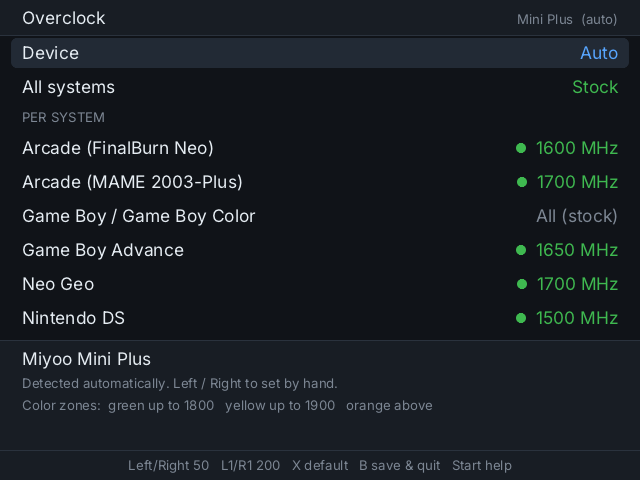
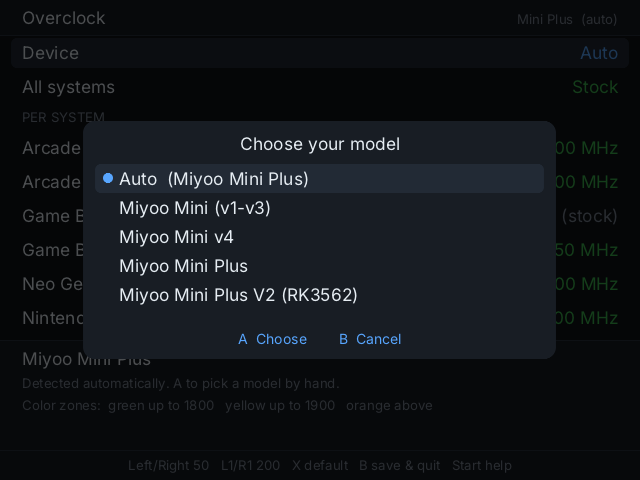
Overclock 1.0.1: model picker
Press A on Device to choose your model from a list (Auto, Mini v1-v3,
Mini v4, Mini Plus, Mini Plus V2) instead of cycling with Left / Right.
Help and hints updated; "Colour" -> "Color".

diff --git a/src/overclock.c b/src/overclock.c
@@ -732,8 +732,8 @@ static void draw_panel(void)
     if (it->kind == I_DEVICE) {
         char s[96];
         draw_str(ui, MARGIN, ty + ui->asc - sm->asc, dev() ? DEVNAMES[dev()] : "Unknown model", C_FG);
-        snprintf(s, sizeof s, "%s", dev_detected ? (dev_choice ? "Set by hand. Left / Right to change, X for auto." : "Detected automatically. Left / Right to set by hand.")
-                                                : "Could not detect the model. Use Left / Right to pick yours.");
+        snprintf(s, sizeof s, "%s", dev_detected ? (dev_choice ? "Set by hand. A to pick another, X for auto." : "Detected automatically. A to pick a model by hand.")
+                                                : "Could not detect the model. Press A to pick yours.");
         draw_str(sm, MARGIN, ty + ui->lineh + sm->asc / 2, s, C_DIM);
         if (dev() == DEV_PLUS_V2) snprintf(s, sizeof s, "Onion OS doesn't run on the V2 yet, so these clocks won't apply.");
         else snprintf(s, sizeof s, "Color zones:  green up to %d   yellow up to %d   orange above", green_max(), yellow_max());
@@ -762,7 +762,7 @@ static void draw_help(void)
 {
     static const char *rows_[][2] = {
         { "Up / Down", "Choose a setting" }, { "Left / Right", "Change by 50 MHz" }, { "L1 / R1", "Change by 200 MHz" },
-        { "X", "Back to default (All systems / stock)" }, { "A", "Restore originals (on that row)" },
+        { "X", "Back to default (All systems / stock)" }, { "A", "Pick model / restore (on those rows)" },
         { "B or Menu", "Save and quit" }, { "Select", "Quit without saving" }, { "Start", "This help" },
     };
     int n = sizeof rows_ / sizeof rows_[0];
@@ -808,6 +808,27 @@ static void draw_warning(void)
     draw_center(sm, W / 2 - bw / 2 - W / 40, by + (bh - sm->lineh) / 2 + sm->asc, "A  I understand", C_BG);
     rrect(W / 2 + W / 40, by, bw, bh, bh / 2, C_LINE);
     draw_center(sm, W / 2 + bw / 2 + W / 40, by + (bh - sm->lineh) / 2 + sm->asc, "B  Quit", C_FG);
+}
+// Device picker: A on the Device row lists every model.
+static int pick_device, pick_sel;
+static void draw_picker(void)
+{
+    Face *ui = face(H / 22), *sm = face(H / 28);
+    int rowh = ui->lineh + H / 60, pw = W * 74 / 100, ph = ui->lineh * 2 + rowh * (DEV_PLUS_V2 + 1) + sm->lineh + H / 14;
+    int x = (W - pw) / 2, y = (H - ph) / 2;
+    darken(170);
+    rrect(x, y, pw, ph, H / 40, C_PANEL);
+    draw_center(ui, W / 2, y + H / 40 + ui->asc, "Choose your model", C_FG);
+    int ry = y + H / 40 + ui->lineh * 3 / 2;
+    for (int d = 0; d <= DEV_PLUS_V2; d++, ry += rowh) {
+        char s[96];
+        if (d == DEV_AUTO) snprintf(s, sizeof s, "Auto  (%s)", dev_detected ? DEVNAMES[dev_detected] : "not detected");
+        else snprintf(s, sizeof s, "%s", DEVNAMES[d]);
+        if (d == pick_sel) rrect(x + H / 40, ry, pw - H / 20, rowh, H / 70, C_SEL);
+        if (d == dev_choice) { int r = H / 90; rrect(x + H / 40 + H / 60, ry + rowh / 2 - r, r * 2, r * 2, r, C_ACCENT); }   // current choice
+        draw_str(ui, x + H / 40 + H / 60 + H / 30, ry + (rowh - ui->lineh) / 2 + ui->asc, s, d == DEV_AUTO && !dev_detected ? C_DIM : C_FG);
+    }
+    draw_center(sm, W / 2, y + ph - H / 40 - sm->lineh + sm->asc, "A  Choose        B  Cancel", C_ACCENT);
 }
 static void draw_confirm(void)
 {
@@ -880,6 +901,7 @@ static void draw(void)
     draw_center(sm, W / 2, hy + (HINT_H - sm->lineh) / 2 + sm->asc, hint, toast[0] ? C_ACCENT : dev() == DEV_PLUS_V2 ? C_ORANGE : C_DIM);
     if (show_help) draw_help();
     if (confirm_restore) draw_confirm();
+    if (pick_device) draw_picker();
     plat_present();
 }
 
@@ -924,6 +946,13 @@ static int handle(int k)                     // 0 = quit
         confirm_restore = 0;
         return 1;
     }
+    if (pick_device) {
+        if (k == K_UP) pick_sel = pick_sel > 0 ? pick_sel - 1 : DEV_PLUS_V2;
+        else if (k == K_DOWN) pick_sel = pick_sel < DEV_PLUS_V2 ? pick_sel + 1 : 0;
+        else if (k == K_A) { if (pick_sel != DEV_AUTO || dev_detected) dev_choice = pick_sel; pick_device = 0; }
+        else if (k == K_B || k == K_MENU) pick_device = 0;
+        return 1;
+    }
     switch (k) {
     case K_UP: do sel = sel > 0 ? sel - 1 : nitems - 1; while (items[sel].kind == I_HEADER); break;
     case K_DOWN: do sel = sel < nitems - 1 ? sel + 1 : 0; while (items[sel].kind == I_HEADER); break;
@@ -932,7 +961,10 @@ static int handle(int k)                     // 0 = quit
     case K_L1: change(-200); break;
     case K_R1: change(200); break;
     case K_X: set_default(); break;
-    case K_A: if (items[sel].kind == I_RESTORE) confirm_restore = 1; break;
+    case K_A:
+        if (items[sel].kind == I_RESTORE) confirm_restore = 1;
+        else if (items[sel].kind == I_DEVICE) { pick_device = 1; pick_sel = dev_choice; }
+        break;
     case K_START: show_help = 1; break;
     case K_SELECT: return -1;
     case K_B: case K_MENU: return 0;

diff --git a/README.md b/README.md
@@ -14,7 +14,7 @@ A CPU clock app for **Onion OS on the Miyoo Mini, Mini v4 and Mini Plus**. Set o
   - Systems that share an emulator share a row (e.g. Genesis / Master System / Game Gear).
   - A system whose launcher can pick between emulators gets a row for each, e.g. **Arcade (MAME 2003-Plus)** and **Arcade (FinalBurn Neo)**.
 - **DS and other non-RetroArch systems** that set their own clock in `launch.sh` (such as Drastic's `cpuclock 1500`) are listed too. The app edits that number.
-- **Automatic model detection**, with a manual override: Mini (v1–v3), Mini v4, Mini Plus, and Mini Plus V2 (see [Compatibility](#compatibility)).
+- **Automatic model detection.** To set it by hand, press A on **Device** and pick from the list: Mini (v1–v3), Mini v4, Mini Plus or Mini Plus V2 (see [Compatibility](#compatibility)).
 - **Color zones:** the value, a dot and a gauge shift from green to yellow to orange as you go up.
 - **Restore original clocks:** the first launch saves every clock your card already had, and one option puts them all back. A system's `launch.sh` is also backed up before its first edit.
 
@@ -53,7 +53,7 @@ There's no official per-system table. As a rough guide, light systems (NES, Game
 | Left / Right | Change by 50 MHz (hold to repeat) |
 | L1 / R1 | Change by 200 MHz |
 | X | Back to default (All systems, or stock for the All systems row) |
-| A | Restore originals (on that row) |
+| A | On **Device**: pick your model from a list. On **Restore original clocks**: put the card's original clocks back |
 | B or Menu | Save and quit |
 | Select | Quit without saving |
 | Start | Controls help |
